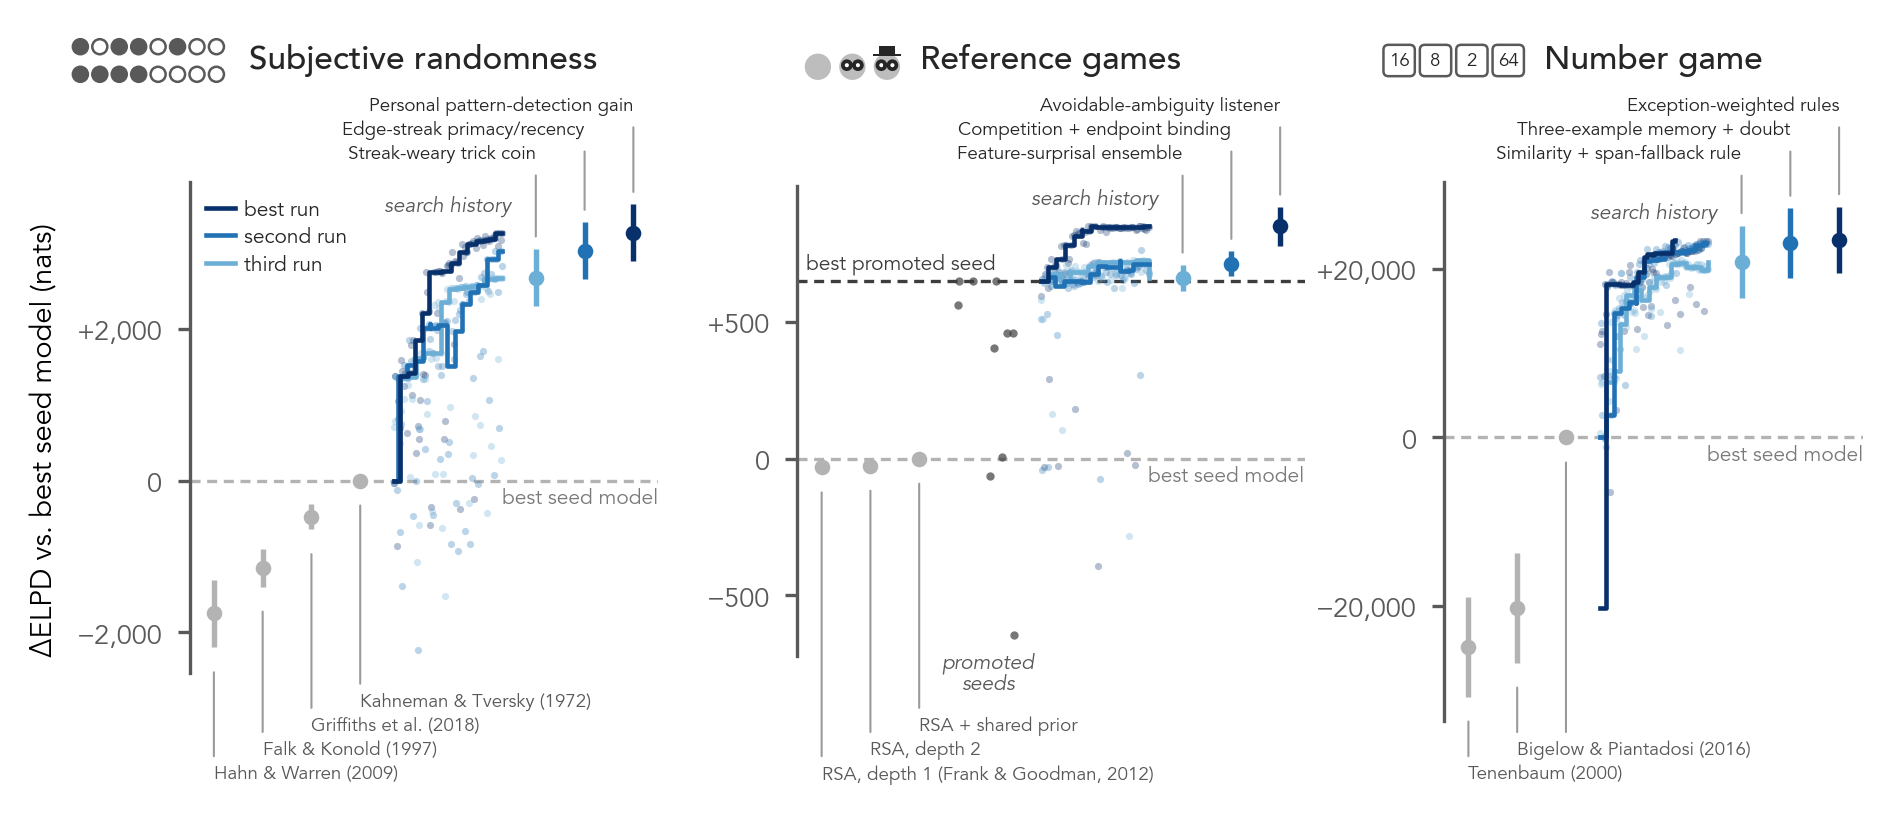
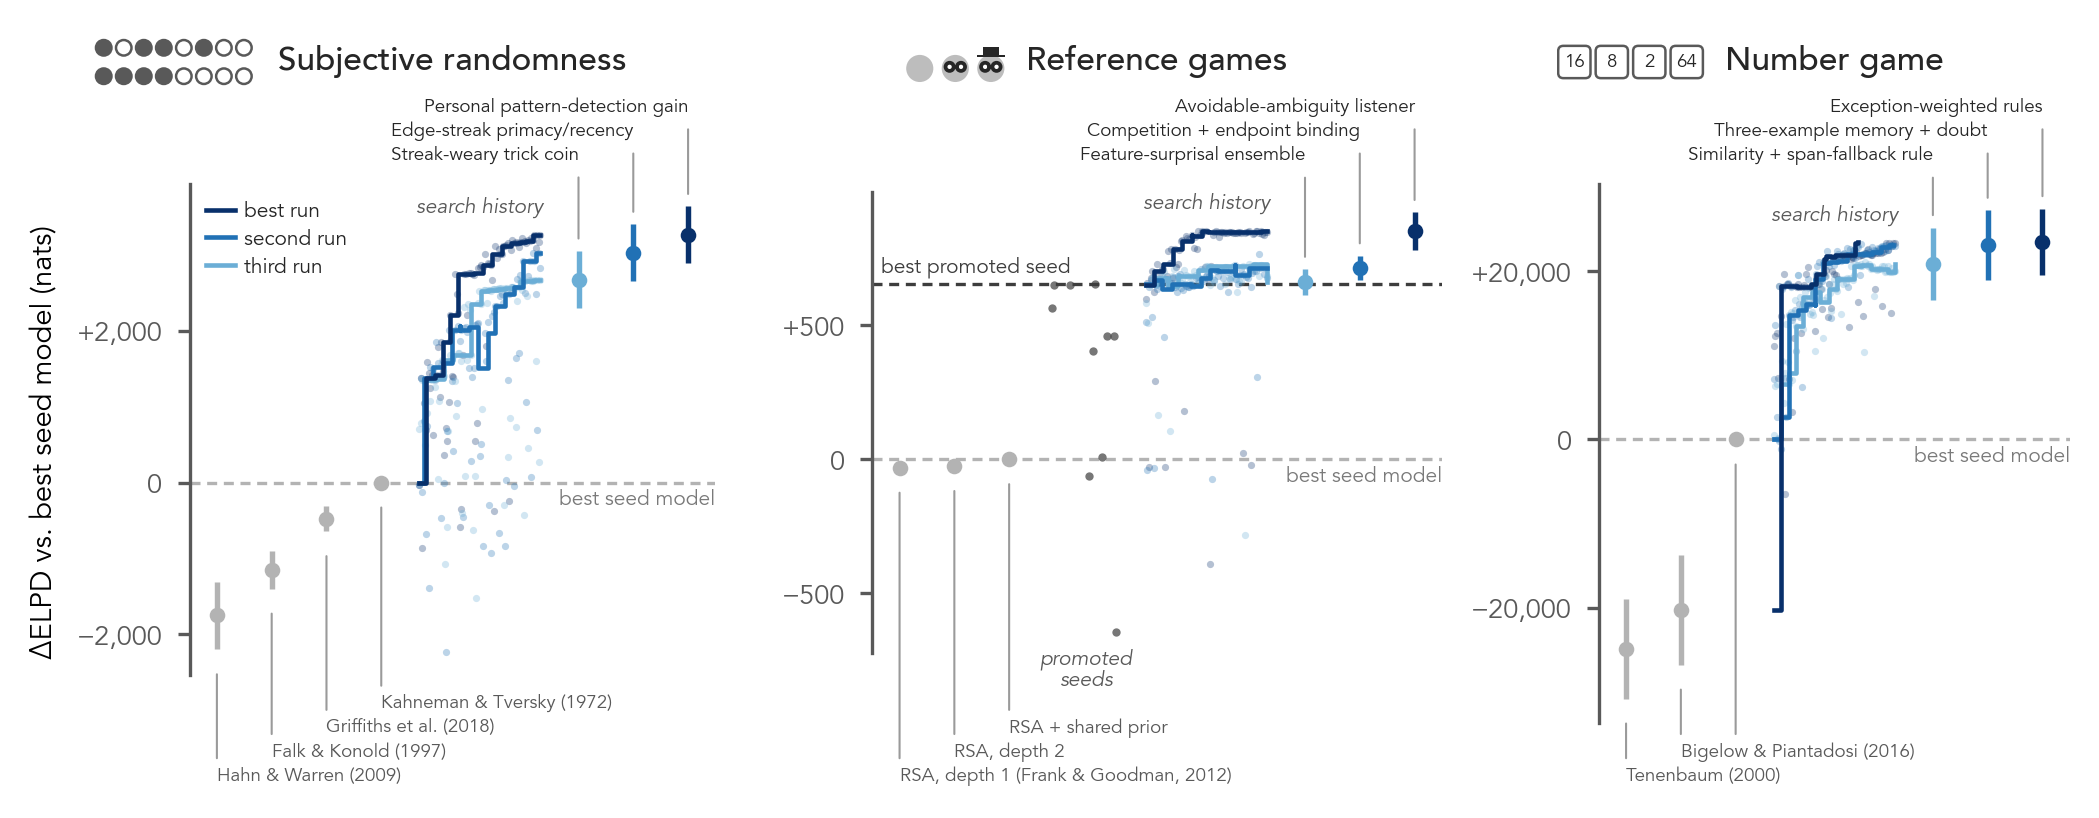
Figure 2 saved at PNAS's full width, 7 in: the canvas is fitted until the cropped figure is

diff --git a/scripts/paper/figures/fig2.py b/scripts/paper/figures/fig2.py
@@ -28,6 +28,7 @@ RUN_COLORS = ["#08306b", "#2171b5", "#6baed6"]  # a panel's runs by their best m
 SEED_LABEL = "#7a7a7a"  # the best seed line's label: darker than the line, to read
 WIDTH = {"winner": 1.0, "seed": 1.0, "nonwinning": 2.6, "promoted": 1.8}  # each column's width
 PENDING_WIDTH = 9.0  # a pending panel's
+WIDTH_IN, HEIGHT_IN = 7.0, 3.0  # the saved figure's width: PNAS's full (two-column) width, 17.8 cm
 STRIP_LABEL = {"nonwinning": "search history", "promoted": "promoted\nseeds"}
 NAME_PT = 4.5  # the models' names
 CAPTION_PT = 5.0  # the strips' captions and the lines' labels
@@ -242,10 +243,10 @@ def draw(domain_data: Dict[str, Optional[Dict[str, Any]]], out_dir: Path, mock_d
     paths = {d: incumbent_paths(d, rows[d], [load_history(histories[d], run) for run in (
         domain_data[d]["pooled"]["runs"] if d in POOLED_VIEW else [r["run"] for r in domain_data[d]["runs"]])])
         for d in rows}
-    with plt.rc_context():
-        setup_style()
-        widths = [sum(WIDTH[r["kind"]] for r in rows[d]) if d in rows else PENDING_WIDTH for d in domain_data]
-        fig, axes = plt.subplots(1, len(domain_data), figsize=(7.2, 3.0),
+    widths = [sum(WIDTH[r["kind"]] for r in rows[d]) if d in rows else PENDING_WIDTH for d in domain_data]
+
+    def figure(canvas_in):
+        fig, axes = plt.subplots(1, len(domain_data), figsize=(canvas_in, HEIGHT_IN), dpi=300,  # measured as saved
                                  gridspec_kw={"wspace": 0.3, "width_ratios": widths})
         axes = np.atleast_1d(axes)
         bands, captions = {}, {}
@@ -268,4 +269,19 @@ def draw(domain_data: Dict[str, Optional[Dict[str, Any]]], out_dir: Path, mock_d
                        bbox_transform=axes[0].get_yaxis_transform(), frameon=False, fontsize=CAPTION_PT,
                        handlelength=1.4, handletextpad=0.4, labelspacing=0.3, borderaxespad=0.4)
         add_title_icons(fig, axes, list(domain_data))
+        # the saved width: the tight box and savefig's padding either side
+        saved = fig.get_tightbbox(fig.canvas.get_renderer()).width + 2 * plt.rcParams["savefig.pad_inches"]
+        return fig, saved
+
+    with plt.rc_context():
+        setup_style()
+        canvas = WIDTH_IN
+        for _ in range(10):  # the tight box does not scale with the canvas (names are sized in points)
+            fig, saved = figure(canvas)
+            if abs(saved - WIDTH_IN) < 0.5 / 300:  # half a pixel at 300 dpi
+                break
+            plt.close(fig)
+            canvas += WIDTH_IN - saved
+        else:
+            raise RuntimeError(f"Figure 2 saves {saved:.3f} in wide, not {WIDTH_IN}")
         save(fig, out_dir, "fig2_elpd")

diff --git a/tests/test_paper_figures.py b/tests/test_paper_figures.py
@@ -106,6 +106,15 @@ def test_only_the_figures_asked_for_are_drawn(tmp_path):
     assert sorted(p.name for p in args.out_dir.iterdir()) == ["fig2_elpd.pdf", "fig2_elpd.png"]
 
 
+def test_figure_2_is_saved_at_pnas_full_width(tmp_path):
+    from PIL import Image
+    args = _setup(tmp_path)
+    args.figures = ["2"]
+    figures.main(args)
+    width_in = Image.open(args.out_dir / "fig2_elpd.png").size[0] / 300
+    assert width_in == pytest.approx(fig2.WIDTH_IN, abs=0.01) and fig2.WIDTH_IN == 7.0
+
+
 def test_a_missing_domain_that_is_not_pending_raises(tmp_path):
     args = _setup(tmp_path)
     (args.figure_data / "rsa.json").unlink()
